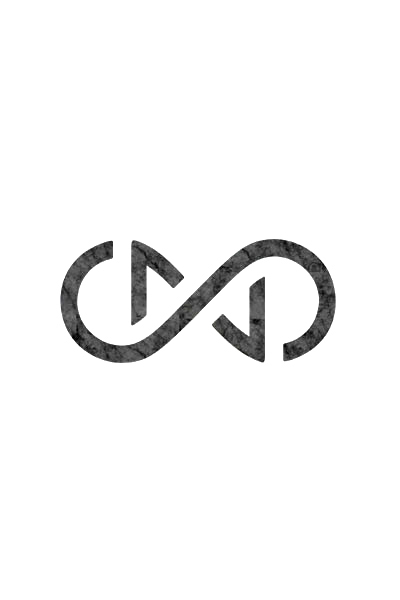
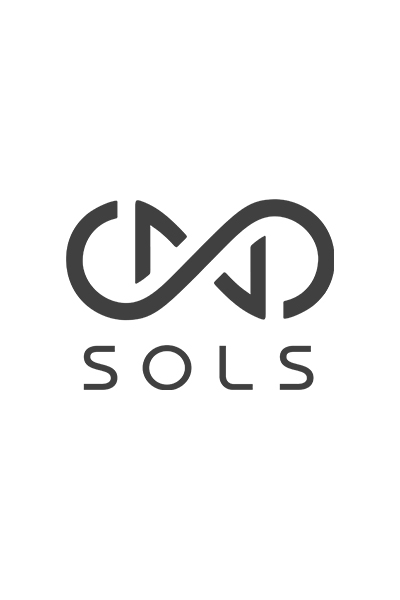
typography updates, converted to 3 columns, swapped out tnails

Changed region(s): [[0.15, 0.33, 0.84, 0.66]]

diff --git a/views/stylesheets/partials/_header.sass b/views/stylesheets/partials/_header.sass
@@ -5,23 +5,36 @@ header
     text-align: center
     width: 100%
     border-bottom: 1px solid $ltgray
-    margin-bottom: 30px
   img.header
     margin: auto
     width: 160px
     &:hover
-      opacity: .7
       +transition(.3s)
+      +scale(.98)
 
-.about-link img 
-  position: relative 
-  top: -2px
-  margin-left: 4px 
+
+.name
+  opacity: 0.6
+  margin-bottom: 30px
 
 #about
   border-bottom: 1px solid $ltgray
   margin-bottom: 50px
-  padding: 60px 0 80px
+  padding: 100px 0 100px
+  background: rgb(17, 17, 17)
+
+.about-blurb
+  a 
+    color: #8B8B8B
+  p
+    font-size: 28px
+    color: #C5C5C5
+    line-height: 1.8em
+    font-family: "avenir", helvetica, arial, sans-serif
+  h1 
+    font-size: 28px
+    letter-spacing: .08em
+    color: #777777
 
 .nav
   margin-top: 30px
@@ -31,7 +44,7 @@ header
       text-transform: uppercase
       font-weight: 500
       letter-spacing: 1.6px
-      font-size: 13px
+      font-size: 15px
       color: #232323
       text-decoration: none
     &.active a 
@@ -42,13 +55,13 @@ header
 @media (max-width: 670px)
 
   .about-blurb p
-    font-size: 19px
+    font-size: 22px
   .item p
     font-size: 18px
 
 @media (max-width: $screen-xs-max)
   #about
-    padding: 20px 20px
+    padding: 60px 40px
   .hide-mobile 
     display: none
   .about-blurb

diff --git a/views/stylesheets/partials/_type.sass b/views/stylesheets/partials/_type.sass
@@ -2,11 +2,11 @@ h1
   +font
   color: $black
   margin: 16px 0px 16px
-  font-size: 22px
+  font-size: 28px
   font-weight: 600
   text-align: left
   text-transform: uppercase
-  letter-spacing: 1.5px
+  letter-spacing: 2px
   line-height: 1.6em
   text-decoration: none
 
@@ -79,7 +79,7 @@ h3
 .item p
   color: #464646
   +font2
-  font-size: 22px
+  font-size: 26px
   text-align: left
   margin: auto
   line-height: 1.6em
@@ -88,7 +88,7 @@ h3
   &.list
     color: #818181
     font-style: italic
-    font-size: 19px
+    font-size: 22px
     line-height: 1.9em
     a 
       color: #818181
@@ -98,4 +98,7 @@ h3
   color: $white
 
 @media (max-width: $screen-sm)
+
+.item h1
+  font-size: 25px
 

diff --git a/views/stylesheets/partials/_projects.sass b/views/stylesheets/partials/_projects.sass
@@ -10,6 +10,7 @@
 .project-tile-wrap 
   +make-xs-column(6)
   +make-md-column(3)
+  +make-lg-column(4)
   display: block
   &.web img
     border: 1px solid $ltgray

diff --git a/views/stylesheets/partials/_base.sass b/views/stylesheets/partials/_base.sass
@@ -13,6 +13,7 @@ body
 
 #load 
   min-height: 500px
+  margin-top: 35px 
 
 body .content
   background: none
